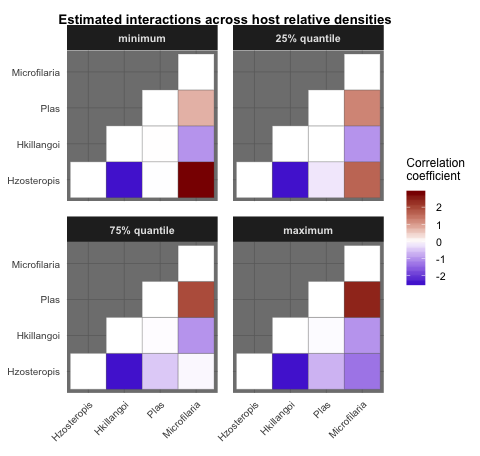
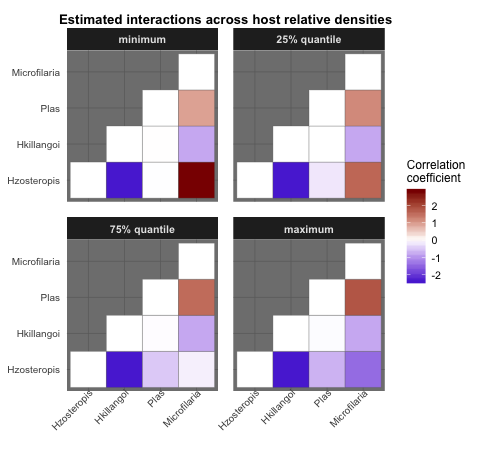
updated readme and fixed minor check/test issues

diff --git a/docs/README.md b/docs/README.md
@@ -1,23 +1,26 @@
 
 <!-- README.md is generated from README.Rmd. Please edit that file -->
-Overview
---------
+*MRFcov*: Markov Random Fields with additional covariates in R
+==============================================================
 
-The `MRFcov` package [![DOI](https://zenodo.org/badge/116616159.svg)](https://zenodo.org/badge/latestdoi/116616159) (described by Clark *et al*, published recently in [*Ecology Statistical Reports*](https://esajournals.onlinelibrary.wiley.com/doi/full/10.1002/ecy.2221)) provides functions for approximating interaction parameters of nodes in undirected Markov Random Fields (MRF) graphical networks. Models can incorporate covariates (a class of models known as [Conditional Random Fields; CRFs](http://homepages.inf.ed.ac.uk/csutton/publications/crftut-fnt.pdf); following methods developed by Cheng *et al* 2014 and Lindberg 2016), allowing users to estimate how interactions between nodes in the graph are predicted to change across covariate gradients.
+[![DOI](https://zenodo.org/badge/116616159.svg)](https://zenodo.org/badge/latestdoi/116616159)[![GitHub version](https://badge.fury.io/gh/nicholasjclark%2FMRFcov.svg)](https://github.com/nicholasjclark/MRFcov)
 
-In principle, `MRFcov` models that use species' occurrences as outcome variables are similar to joint species distribution models in that variance in occurrences can be partitioned among abiotic and biotic drivers. However, key differences are that `MRFcov` models can:
+[Releases](https://github.com/nicholasjclark/MRFcov/releases)   |   [Reporting Issues](https://github.com/nicholasjclark/MRFcov/issues)   |   [Blogpost](http://nicholasjclark.weebly.com/biotic-interactions.html) <img align="right" src=http://nicholasjclark.weebly.com/uploads/4/4/9/4/44946407/nclark-network-changes_orig.gif alt="animated gif" width="360" height="235"/>
 
-1.  Produce directly interpretable coefficients that allow users to determine the relative importances (i.e. effect sizes) of species' interactions and environmental covariates in driving occurrence probabilities
+`MRFcov` (described by Clark *et al*, published in [*Ecology Statistical Reports*](https://esajournals.onlinelibrary.wiley.com/doi/full/10.1002/ecy.2221)) provides `R` functions for approximating interaction parameters of nodes in undirected Markov Random Fields (MRF) graphical networks. Models can incorporate covariates (a class of models known as [Conditional Random Fields; CRFs](http://homepages.inf.ed.ac.uk/csutton/publications/crftut-fnt.pdf); following methods developed by Cheng *et al* 2014 and Lindberg 2016), allowing users to estimate how interactions between nodes in the graph are predicted to change across covariate gradients.
+
+Why Use Conditional Random Fields?
+----------------------------------
+
+In principle, `MRFcov` models that use species' occurrences or abundances as outcome variables are similar to [Joint Species Distribution models](https://methodsblog.wordpress.com/2015/12/22/warton_ovaskainen/) in that variance can be partitioned among abiotic and biotic drivers. However, key differences are that `MRFcov` models can:
+
+1.  Produce directly interpretable coefficients that allow users to determine the relative importances (i.e. effect sizes) of species' interactions and environmental covariates in driving abundanecs or occurrence probabilities
 
 2.  Identify interaction strengths, rather than simply determining whether they are "significantly different from zero"
 
 3.  Estimate how interactions are predicted to change across environmental gradients
 
-At present, only binary response variables can be included (1s and 0s, which are commonly used in multispecies occurrence data), though models accomodating different data structures may be added in future.
-
 MRF and CRF interaction parameters are approximated using separate regressions for individual species within a joint modelling framework. Because all combinations of covariates and additional species are included as predictor variables in node-specific regressions, variable selection is required to reduce overfitting and add sparsity. This is accomplished through LASSO penalization using functions in the [penalized](https://cran.r-project.org/web/packages/penalized/index.html) and [glmnet](https://cran.r-project.org/web/packages/glmnet/index.html) packages.
-
-*This project is licensed under the terms of the GNU General Public License (GNU GPLv3)*
 
 Installation
 ------------
@@ -29,8 +32,8 @@ You can install the `MRFcov` package into `R` directly from `GitHub` using:
 devtools::install_github("nicholasjclark/MRFcov")
 ```
 
-Usage
------
+Brief Overview
+--------------
 
 We can explore the model's primary functions using a test dataset that is available with the package. Load the `Bird.parasites` dataset, which contains binary occurrences of four avian blood parasites in New Caledonian *Zosterops* species ([available in its original form at Dryad](http://dx.doi.org/10.5061/dryad.pp6k4); Clark *et al* 2016). A single continuous covariate is also included (`scale.prop.zos`), which reflects the relative abundance of *Zosterops* species among different sample sites
 
@@ -39,24 +42,30 @@ library(MRFcov)
 data("Bird.parasites")
 ```
 
-Visualise the dataset to see how analysis data needs to be structured. In short, node variable (i.e. species) occurrences should be included as binary variables (1s and 0s) as the left-most variables in `data`. Any covariates can be included as the right-most variables. Note, these covariates should all be on a similar scale, ideally using the `scale` function for continuous covariates (or similar) so that covariates have `mean = 0` and `sd = 1`
+Visualise the dataset to see how analysis data needs to be structured. In short, when estimating co-occurrence probabilities, node variable (i.e. species) occurrences should be included as binary variables (1s and 0s) as the left-most variables in `data`. Any covariates can be included as the right-most variables. Note, these covariates should ideally be on a similar scale, using the `scale` function for continuous covariates (or similar) so that covariates generally have `mean = 0` and `sd = 1`
 
 ``` r
 help("Bird.parasites")
 View(Bird.parasites)
 ```
 
+You can read more about specific requirements of data formats (for example, one-hot encoding of categorical covariates) in the supplied vignette
+
+``` r
+vignette("CRF_data_prep")
+```
+
 ### Running MRFs and visualising interaction coefficients
 
-Run an MRF model using the provided continuous covariate (`scale.prop.zos`). Here we specify a weak penalization parameter (`lambda1`) for the LASSO variable selection as we only have a single covariate
+Run an MRF model using the provided continuous covariate (`scale.prop.zos`). Here we allow the species-specific regressions to be individually optimised through cross-validated LASSO regressions (the default option when no `lambda1` regularization value is specified). This will produce a warning for reassurance
 
 ``` r
 MRF_mod <- MRFcov(data = Bird.parasites, n_nodes = 4, family = 'binomial')
-#> Warning in MRFcov(data = Bird.parasites, n_nodes = 4, family = "binomial"):
-#> lambda1 not provided, using cross-validation to optimise each regression
+#> Warning in MRFcov(data = Bird.parasites, n_nodes = 4, family = "binomial"): fixed_lambda not provided. Cross-validated optimisation will commence by default,
+#>             ignoring lambda1
 ```
 
-Visualise the estimated species interaction coefficients as a heatmap
+Visualise the estimated species interaction coefficients as a heatmap. These represent mean interactions and are very useful for identifying co-occurrence patterns, but they do not indicate how interactions change across gradients
 
 ``` r
 plotMRF_hm(MRF_mod)
@@ -64,7 +73,7 @@ plotMRF_hm(MRF_mod)
 
 ![](README-Readme.fig1-1.png)
 
-Visualise how species interactions are predicted to change across covariate magnitudes
+For more in-depth visualisation, we can plot how species interactions are predicted to change across covariate magnitudes
 
 ``` r
 plotMRF_hm_cont(MRF_mod = MRF_mod, covariate = 'scale.prop.zos', data = Bird.parasites, 
@@ -80,40 +89,47 @@ Finally, we can explore regression coefficients to get a better understanding of
 ``` r
 MRF_mod$key_coefs$Hzosteropis
 #>                      Variable Rel_importance Standardised_coef   Raw_coef
-#> 1                  Hkillangoi     0.67380687        -2.4142353 -2.4142353
-#> 5 scale.prop.zos_Microfilaria     0.12202530        -1.0273935 -1.0273935
-#> 3                Microfilaria     0.09683057         0.9152045  0.9152045
-#> 4              scale.prop.zos     0.09176848        -0.8909609 -0.8909609
-#> 2                        Plas     0.01229154        -0.3260731 -0.3260731
+#> 1                  Hkillangoi     0.66602159        -2.3579238 -2.3579238
+#> 5 scale.prop.zos_Microfilaria     0.13268851        -1.0524520 -1.0524520
+#> 4              scale.prop.zos     0.09509246        -0.8909609 -0.8909609
+#> 3                Microfilaria     0.09006475         0.8670877  0.8670877
+#> 2                        Plas     0.01273676        -0.3260731 -0.3260731
 ```
 
 ``` r
 MRF_mod$key_coefs$Hkillangoi
 #>         Variable Rel_importance Standardised_coef   Raw_coef
-#> 1    Hzosteropis     0.77720735        -2.4142353 -2.4142353
-#> 2   Microfilaria     0.13257995        -0.9971261 -0.9971261
-#> 3 scale.prop.zos     0.09019079        -0.8224173 -0.8224173
+#> 1    Hzosteropis     0.81691342        -2.3579238 -2.3579238
+#> 2   Microfilaria     0.09233384        -0.7927244 -0.7927244
+#> 3 scale.prop.zos     0.09072954        -0.7858074 -0.7858074
 ```
 
 ``` r
 MRF_mod$key_coefs$Plas
 #>                      Variable Rel_importance Standardised_coef   Raw_coef
-#> 2                Microfilaria      0.6466905         1.5278142  1.5278142
-#> 3              scale.prop.zos      0.2689674        -0.9853082 -0.9853082
-#> 4 scale.prop.zos_Microfilaria      0.0469859         0.4118187  0.4118187
-#> 1                 Hzosteropis      0.0294568        -0.3260731 -0.3260731
+#> 2                Microfilaria     0.60330245         1.3235098  1.3235098
+#> 3              scale.prop.zos     0.33436818        -0.9853082 -0.9853082
+#> 1                 Hzosteropis     0.03661937        -0.3260731 -0.3260731
+#> 4 scale.prop.zos_Microfilaria     0.01589198         0.2148071  0.2148071
 ```
 
 ``` r
 MRF_mod$key_coefs$Microfilaria
 #>                     Variable Rel_importance Standardised_coef   Raw_coef
-#> 3                       Plas     0.35143099         1.5278142  1.5278142
-#> 4             scale.prop.zos     0.18831959        -1.1184028 -1.1184028
-#> 5 scale.prop.zos_Hzosteropis     0.15891783        -1.0273935 -1.0273935
-#> 2                 Hkillangoi     0.14969219        -0.9971261 -0.9971261
-#> 1                Hzosteropis     0.12610586         0.9152045  0.9152045
-#> 6        scale.prop.zos_Plas     0.02553354         0.4118187  0.4118187
+#> 3                       Plas      0.3473911         1.3235098  1.3235098
+#> 5 scale.prop.zos_Hzosteropis      0.2196691        -1.0524520 -1.0524520
+#> 4             scale.prop.zos      0.1500585        -0.8698576 -0.8698576
+#> 1                Hzosteropis      0.1491044         0.8670877  0.8670877
+#> 2                 Hkillangoi      0.1246260        -0.7927244 -0.7927244
 ```
+
+To work through more in-depth tutorials and examples, see the vignettes in the package and check out papers that have been published using the method
+
+``` r
+vignette("Bird_Parasite_CRF")
+```
+
+Clark *et al* 2018 [*Ecology*](https://esajournals.onlinelibrary.wiley.com/doi/full/10.1002/ecy.2221) | [PDF](http://nicholasjclark.weebly.com/uploads/4/4/9/4/44946407/clark_et_al-2018-ecology.pdf)
 
 References
 ----------
@@ -125,3 +141,5 @@ Clark, N.J., Wells, K., Lindberg, O. (2018). Unravelling changing interspecific 
 Clark, N.J., K. Wells, D. Dimitrov, and S.M. Clegg. (2016). Co-infections and environmental conditions drive the distributions of blood parasites in wild birds. *Journal of Animal Ecology* 85:1461-1470.
 
 Lindberg, O. (2016). Markov Random Fields in Cancer Mutation Dependencies. Master's of Science Thesis. University of Turku, Turku, Finland.
+
+*This project is licensed under the terms of the GNU General Public License (GNU GPLv3)*
